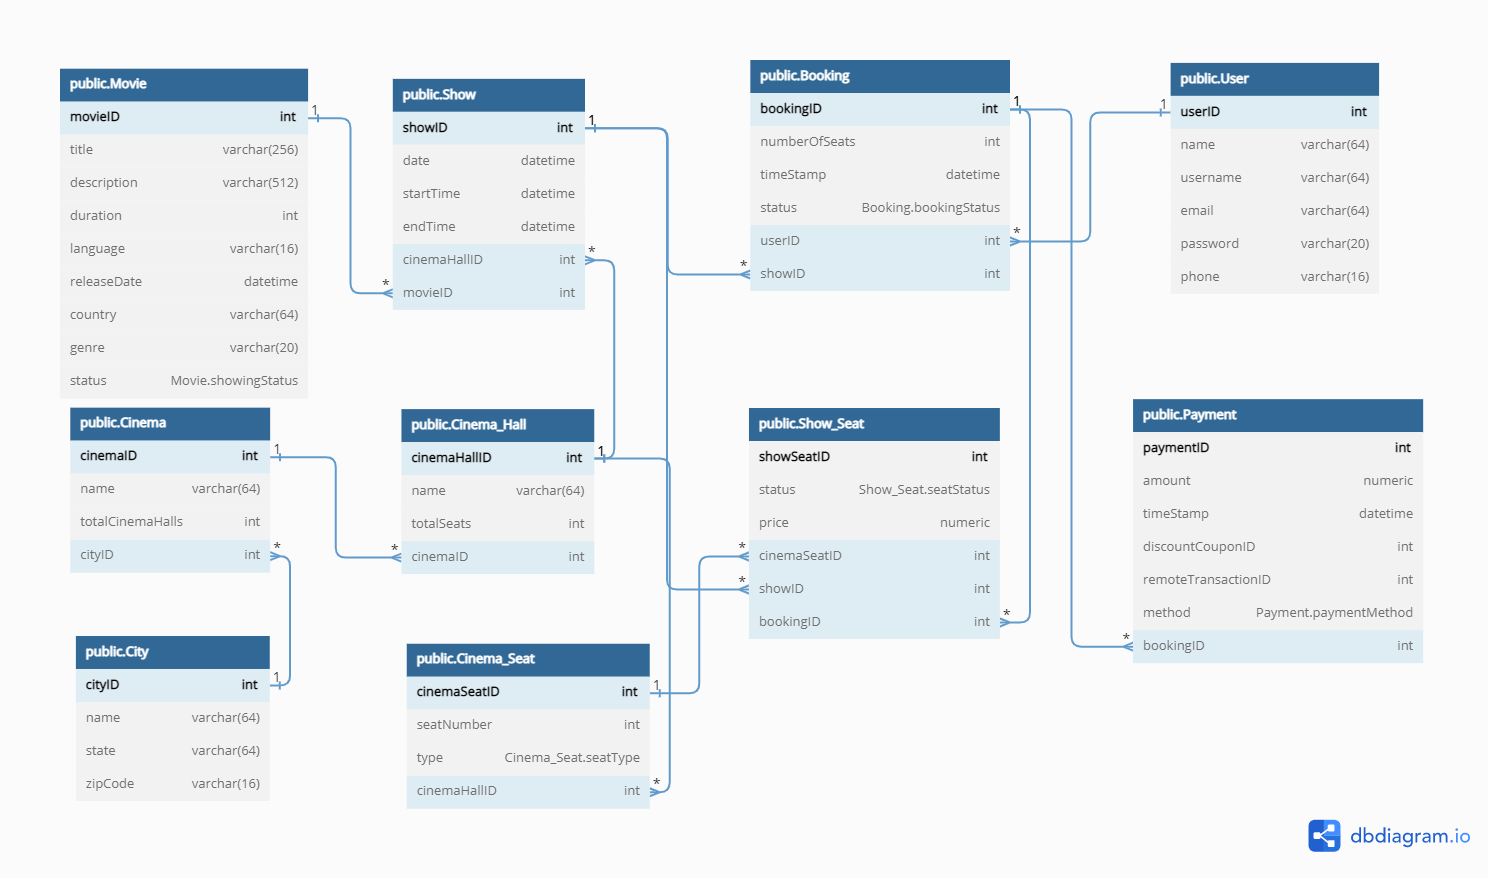
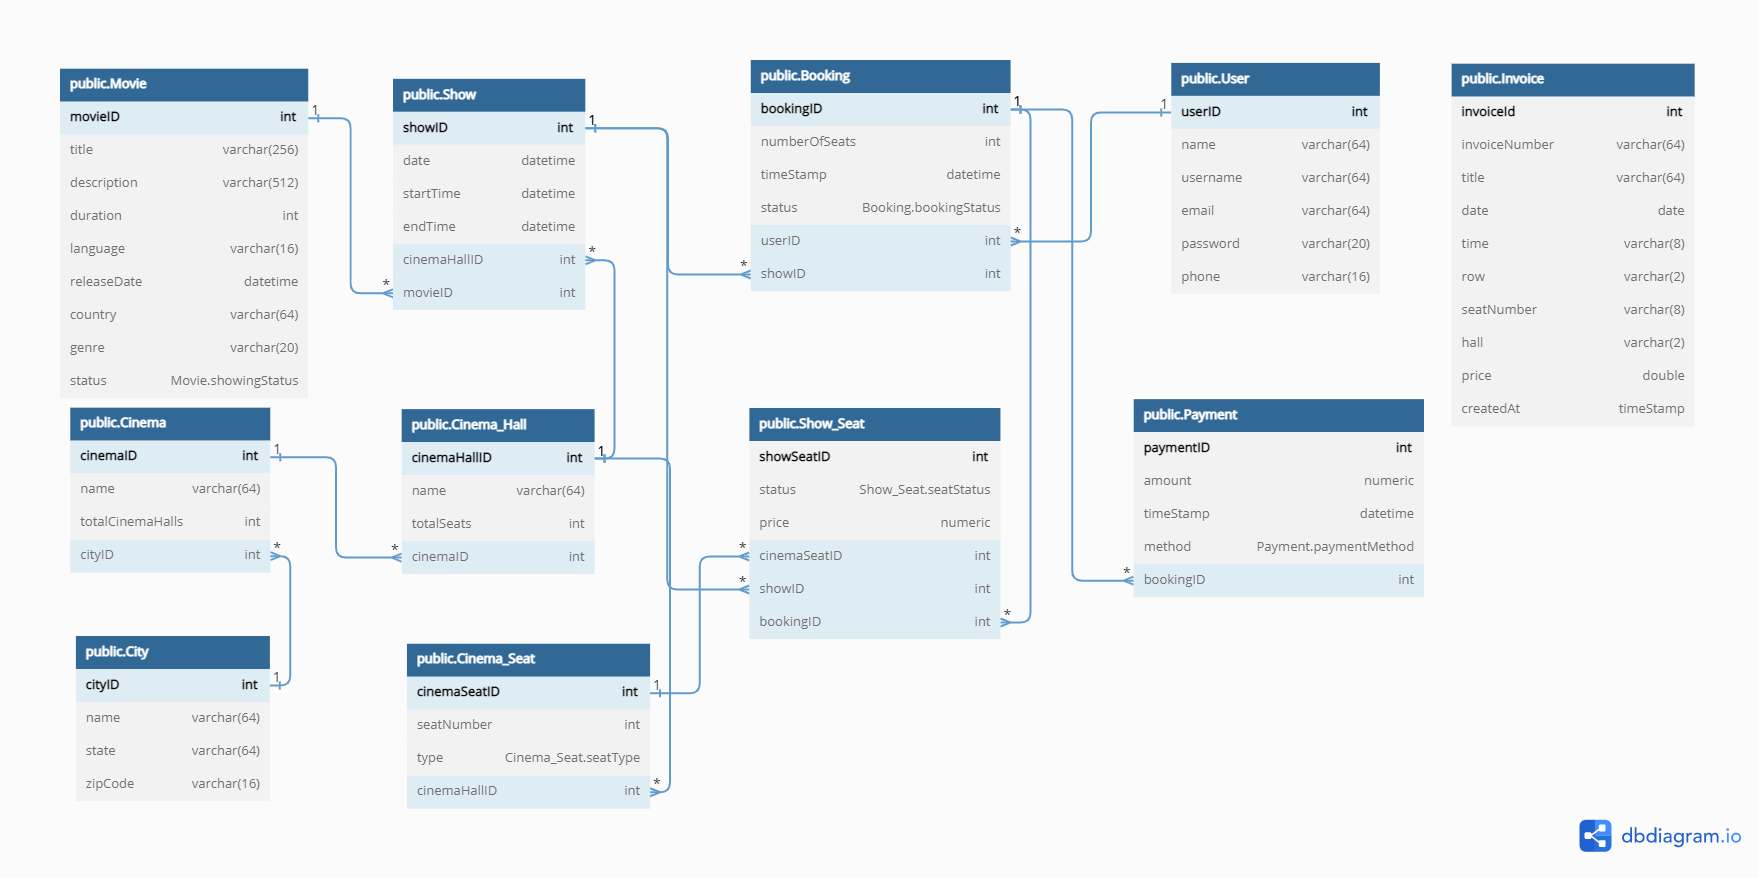
Update MyCinema v0.3

diff --git a/README.md b/README.md
@@ -1,8 +1,10 @@
-# MyCinema ERD
+# MyCinema REST API
+
+# ERD
 
 ![ERD](https://gitlab.com/km3-bej-1/challenge/04-08/muhammadfauzanyasykur_reservasi_bioskop/-/raw/main/image/Reservasi%20Tiket%20Bioskop.png?raw=true)
 
-Code:
+Details:
 ```
 Table User {
   userID int [pk, increment]
@@ -104,8 +106,6 @@ Table Payment {
   paymentID int [pk]
   amount numeric
   timeStamp datetime
-  discountCouponID int
-  remoteTransactionID int
   method Payment.paymentMethod
   bookingID int [ref: > Booking.bookingID]
 }
@@ -115,4 +115,24 @@ Enum Payment.paymentMethod {
   bank
   eWallet
 }
+
+Table Invoice {
+  invoiceId int [pk]
+  invoiceNumber varchar(64)
+  title varchar(64)
+  date date
+  time varchar(8)
+  row varchar(2)
+  seatNumber varchar(8)
+  hall varchar(2)
+  price double
+  createdAt timeStamp
+}
 ```
+# API Documentation via Swagger
+![Swagger](https://gitlab.com/km3-bej-1/challenge/04-08/muhammadfauzanyasykur_reservasi_bioskop/-/raw/main/image/MyCinemaAPI-Swagger.png?raw=true)
+
+# Generate Invoice PDF via Jaspersoft
+![Invoice](https://gitlab.com/km3-bej-1/challenge/04-08/muhammadfauzanyasykur_reservasi_bioskop/-/raw/main/image/MyCinema-InvoiceTicket.png?raw=true)
+
+![Invoice](https://gitlab.com/km3-bej-1/challenge/04-08/muhammadfauzanyasykur_reservasi_bioskop/-/raw/main/generated-invoices/invoice-MYCNM-001.pdf?raw=true)
